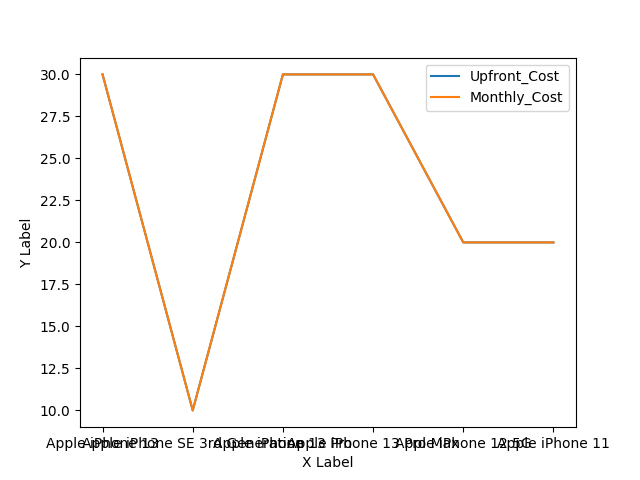
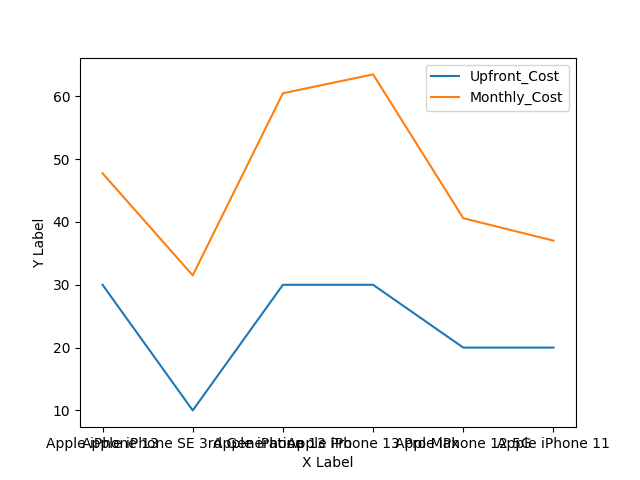
gets actual monthly cost

diff --git a/O2_Script.py b/O2_Script.py
@@ -34,7 +34,7 @@ show_all_xpath = "/html/body/div[2]/div[3]/div/div/div/article/div/div[4]/button
 driver = webdriver.Chrome(service=PATH)
 phone_name_list = []
 
-#Main Function
+#MAIN FUNCTION
 def iPhoneScraper():
     print ("Web Scraper in progress, please wait...")
     go_to_o2()
@@ -154,7 +154,7 @@ def iphone_data_collector():
         phone_upfront_cost = driver.find_element(By.CSS_SELECTOR, 'div.upfront-cost.ng-binding.ng-isolate-scope').text
         phone_upfront_cost = phone_upfront_cost.lstrip('£');
         driver.implicitly_wait(2)
-        phone_monthly_cost = driver.find_element(By.CSS_SELECTOR, 'div.upfront-cost.ng-binding.ng-isolate-scope').text
+        phone_monthly_cost = driver.find_element(By.CSS_SELECTOR ,'div#month-total.upfront-cost.total-upfront-cost.ng-binding.ng-isolate-scope').text
         phone_monthly_cost = phone_monthly_cost.lstrip('£');
         driver.implicitly_wait(2)
         phone_tariff = driver.find_element(By.CSS_SELECTOR, 'div.card-sentence').text
